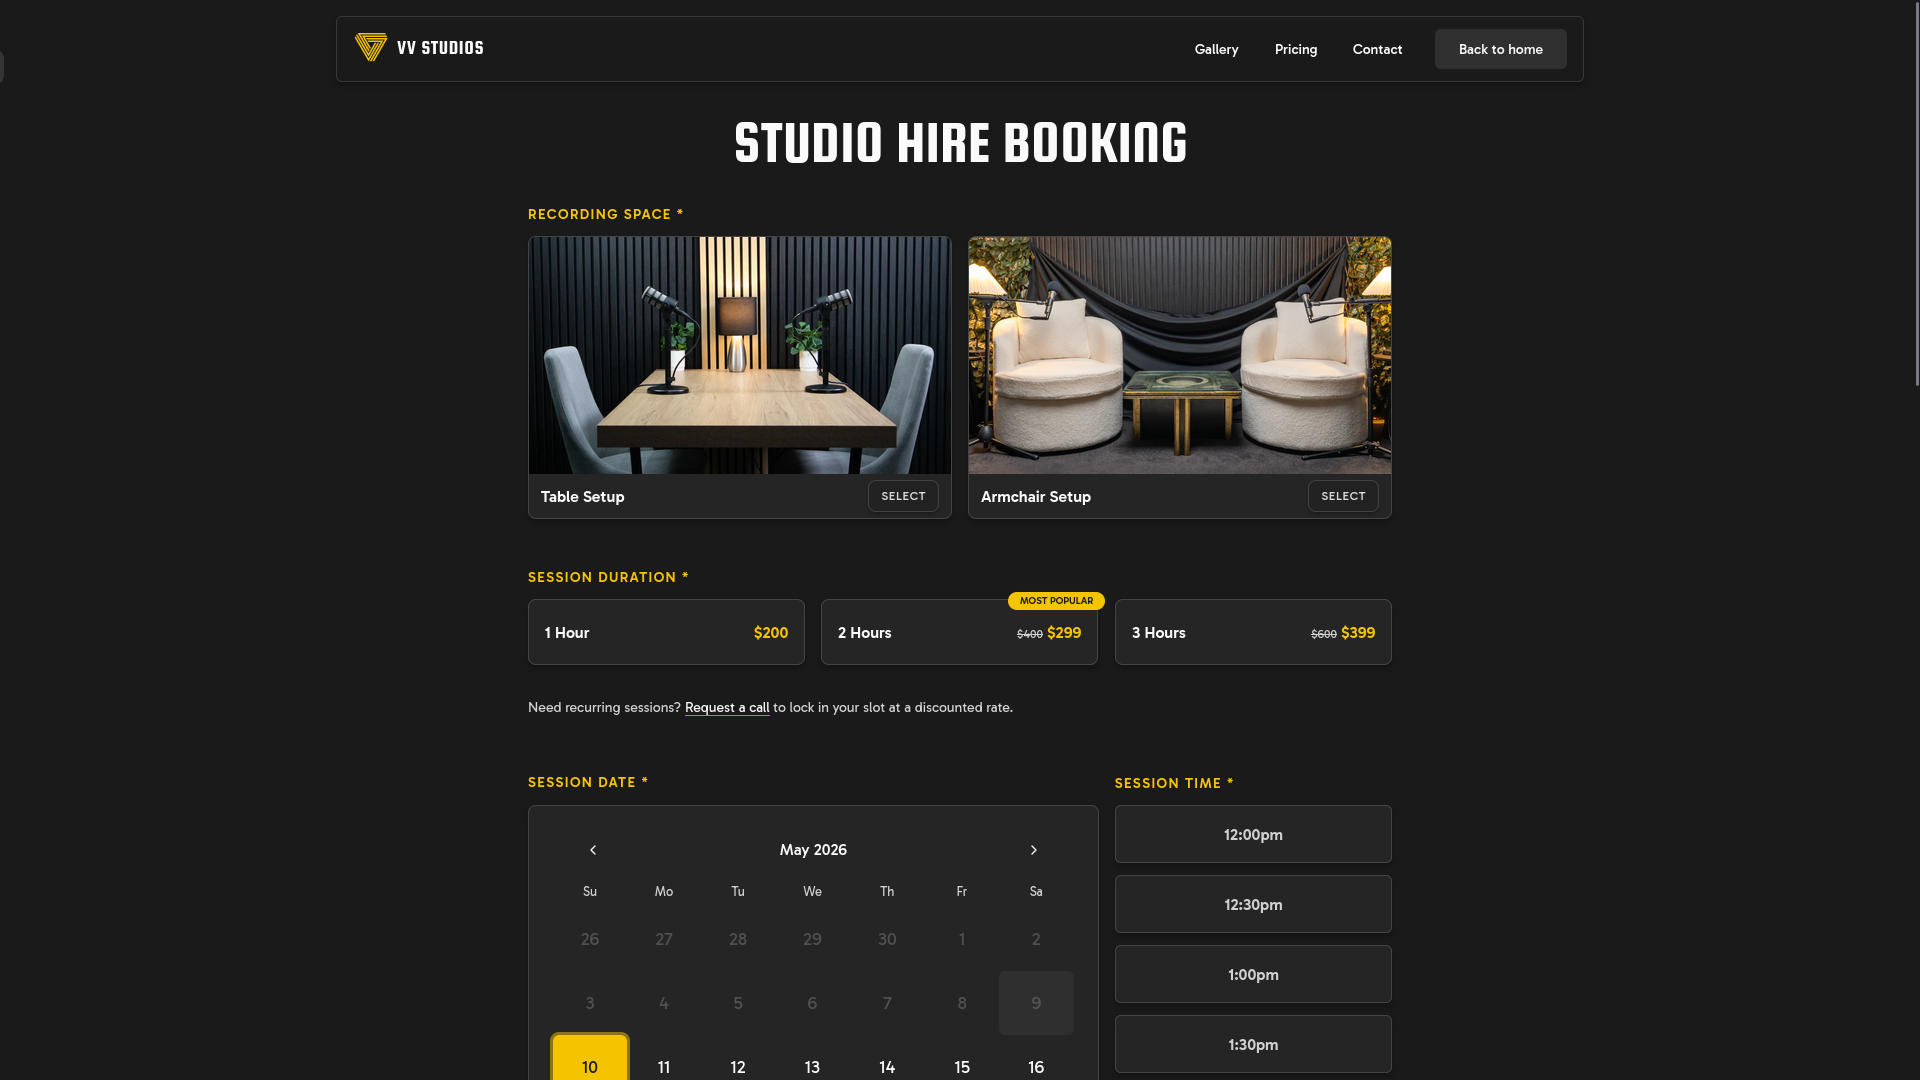
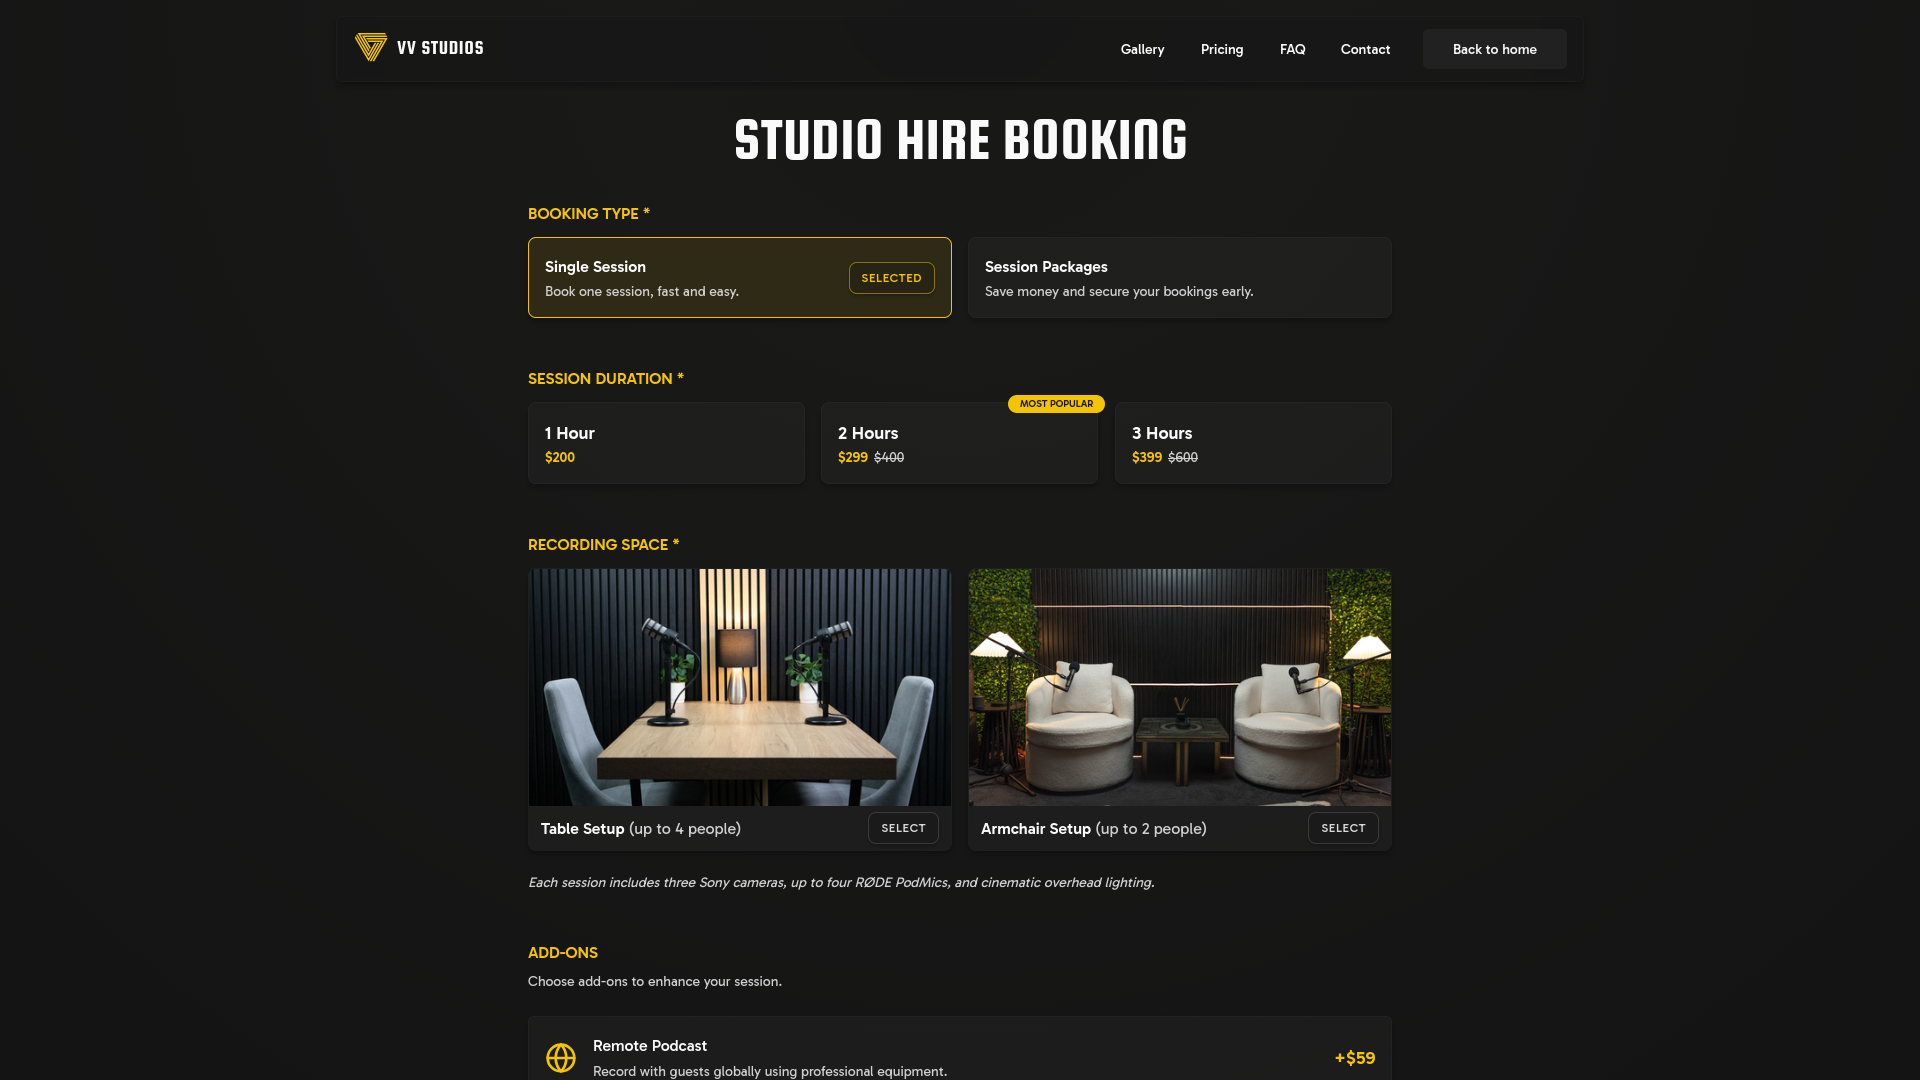
feat(vvstudios): expanded case study with product walkthrough
- Added a full-screen booking product carousel with seven annotated screenshots
- Added a standalone previous website section describing the original booking and payment issues
- Reordered VV Studios content entries and page section loading to accommodate the new narrative
- Updated project artwork for the case study

diff --git a/src/components/projects/media/SectionCarouselMedia.svelte b/src/components/projects/media/SectionCarouselMedia.svelte
@@ -9,6 +9,9 @@
 	};
 
 	export let items: CarouselItem[] = [];
+	export let imageFit: "cover" | "contain" = "cover";
+	export let aspectRatio: "4:3" | "16:9" = "4:3";
+	export let background: "default" | "black" = "default";
 
 	const swipeThreshold = 48;
 	const pointerActivationThreshold = 12;
@@ -155,7 +158,7 @@
 
 <div
 	class="section-carousel grid w-[min(100%,57.4vw,var(--section-carousel-max-width))] min-w-0 gap-3 self-center max-[1450px]:w-full max-sm:w-full"
-	style={`--section-carousel-max-width: ${carouselMaxWidth}px; --carousel-index: ${currentIndex};`}>
+	style={`--section-carousel-max-width: ${carouselMaxWidth}px; --carousel-index: ${currentIndex}; --section-carousel-image-fit: ${imageFit}; --section-carousel-aspect-ratio: ${aspectRatio.replace(":", " / ")}; --section-carousel-background: ${background === "black" ? "#000" : "var(--color-media-fallback)"};`}>
 	<div
 		class="section-carousel-frame taped-frame relative min-w-0 pt-[calc(var(--size-project-tape-height)*0.5)]"
 		style="--tape-angle: calc(var(--section-media-tilt, 0deg) + 1.2deg);">
@@ -248,14 +251,15 @@
 	}
 
 	.section-carousel-slide {
-		aspect-ratio: 4 / 3;
+		aspect-ratio: var(--section-carousel-aspect-ratio, 4 / 3);
+		background: var(--section-carousel-background, var(--color-media-fallback)) !important;
 	}
 
 	.section-carousel-image {
 		display: block;
 		width: 100%;
 		height: 100%;
-		object-fit: cover;
+		object-fit: var(--section-carousel-image-fit, cover);
 	}
 
 	.section-carousel-media::before {
@@ -382,7 +386,7 @@
 		}
 
 		.section-carousel-media {
-			aspect-ratio: 4 / 3;
+			aspect-ratio: var(--section-carousel-aspect-ratio, 4 / 3);
 		}
 
 		.section-carousel-media::before {

diff --git a/src/content.config.ts b/src/content.config.ts
@@ -31,6 +31,9 @@ const sectionMediaSchema = ({ image }) =>
 		}),
 		z.object({
 			type: z.literal("carousel"),
+			imageFit: z.enum(["cover", "contain"]).optional(),
+			aspectRatio: z.enum(["4:3", "16:9"]).optional(),
+			background: z.enum(["default", "black"]).optional(),
 			items: z.array(
 				z.object({
 					image: image(),

diff --git a/src/components/projects/caseStudySections.ts b/src/components/projects/caseStudySections.ts
@@ -44,6 +44,9 @@ export type SectionMedia =
 	  }
 	| {
 			type: "carousel";
+			imageFit?: "cover" | "contain";
+			aspectRatio?: "4:3" | "16:9";
+			background?: "default" | "black";
 			items: CarouselItem[];
 	  };
 

diff --git a/src/content/vvstudios/02-project-showcase.md b/src/content/vvstudios/02-project-showcase.md
@@ -1,0 +1,39 @@
+---
+section:
+  variant: carousel
+  extraClass: section--media-only
+  media:
+    type: carousel
+    imageFit: contain
+    aspectRatio: "16:9"
+    background: black
+    items:
+      - image: ../../assets/vvstudios/booking.png
+        alt: VV Studios studio hire booking form
+        title: New Booking Form
+        description: Custom booking form designed to fit the business's unique requirements.
+      - image: ../../assets/vvstudios/carousel/2-google-calendar-sync.png
+        alt: VV Studios booking form with calendar and time selection
+        title: Calendar Availability Sync
+        description: Create bookings synced with Google Calendar.
+      - image: ../../assets/vvstudios/carousel/3-stripe.png
+        alt: Stripe checkout for a VV Studios booking deposit
+        title: Stripe Checkout for Booking Deposits
+        description: Stripe checkout integration enabling deposit payments for bookings.
+      - image: ../../assets/vvstudios/carousel/4-dashboard.png
+        alt: VV Studios internal admin dashboard showing bookings
+        title: Internal Admin Dashboard
+        description: Internal Admin dashboard to manage bookings, client communication, and deliverables.
+      - image: ../../assets/vvstudios/carousel/5-invoice-email.png
+        alt: VV Studios booking confirmation and invoice email
+        title: Automated Email and Invoice Creation
+        description: Automated branded emails, invoices, and booking reminders.
+      - image: ../../assets/vvstudios/carousel/6-package-schedule.png
+        alt: VV Studios page for scheduling package sessions
+        title: Package Bookings and Multi-Session Scheduling
+        description: Added package bookings and multi-session scheduling to meet a key business need.
+      - image: ../../assets/vvstudios/carousel/7-reschedule.png
+        alt: VV Studios page for rescheduling a booking
+        title: Convenient Rescheduling System
+        description: Implemented self-service rescheduling for customers to reduce admin work.
+---

diff --git a/src/content/vvstudios/01-project-overview.md b/src/content/vvstudios/01-project-overview.md
@@ -1,11 +1,4 @@
 ---
-section:
-  variant: media
-  media:
-    type: image
-    image: ../../assets/vvstudios/old.png
-    alt: Old VV Studios website
-    caption: Previous implementation of the website using a web builder
 ---
 
 ## Project Overview
@@ -16,14 +9,3 @@ I rebuilt the company website from scratch, whilst creating a custom booking
 system designed specifically for the business. The previous website used a web
 builder, which made it difficult to maintain and customise.
 
-#### Problems with the previous website
-
-- The previous setup depended on an embedded Google Form, which created a
-poor user experience and difficult booking process.
-- The Google Form couldn't be customised. It wasn't possible to implement
-custom layouts or create a cohesive design that aligned with the brand's visual
-identity.
-- Payments were handled in a separate interface that often opened in a new
-tab, disrupting the user journey and often led to failed bookings.
-- The overall website lacked clear direction. There was no dedicated landing
-page or strong CTAs to guide users towards the booking process.

diff --git a/src/content/vvstudios/03-previous-website.md b/src/content/vvstudios/03-previous-website.md
@@ -1,0 +1,23 @@
+---
+section:
+  variant: media
+  media:
+    type: image
+    image: ../../assets/vvstudios/old.png
+    alt: Old VV Studios website
+    caption: Previous implementation of the website using a web builder
+---
+
+## Previous Website
+
+### What problems did the previous website have?
+
+- The previous setup depended on an embedded Google Form, which created a
+poor user experience and difficult booking process.
+- The Google Form couldn't be customised. It wasn't possible to implement
+custom layouts or create a cohesive design that aligned with the brand's visual
+identity.
+- Payments were handled in a separate interface that often opened in a new
+tab, disrupting the user journey and often led to failed bookings.
+- The overall website lacked clear direction. There was no dedicated landing
+page or strong CTAs to guide users towards the booking process.

diff --git a/src/content/vvstudios/04-key-improvements.md b/src/content/vvstudios/04-key-improvements.md
@@ -3,9 +3,8 @@ section:
   variant: media
   media:
     type: image
-    image: ../../assets/vvstudios/booking.png
-    alt: VV Studios website booking form
-    caption: New appointment booking form redesign
+    image: ../../assets/vvstudios/gallery.png
+    alt: VV Studios gallery page featuring studio photography and video work
 ---
 
 ## Key Improvements

diff --git a/AGENTS.md b/AGENTS.md
@@ -2,9 +2,10 @@
 
 Astro project with some Svelte components. Motion for complex animations.
 
-## Build/Lint/Test Commands
+## Lint/Test Commands
 
 Use pnpm.
+Do not run build
 
 ## Code Style Guidelines
 
